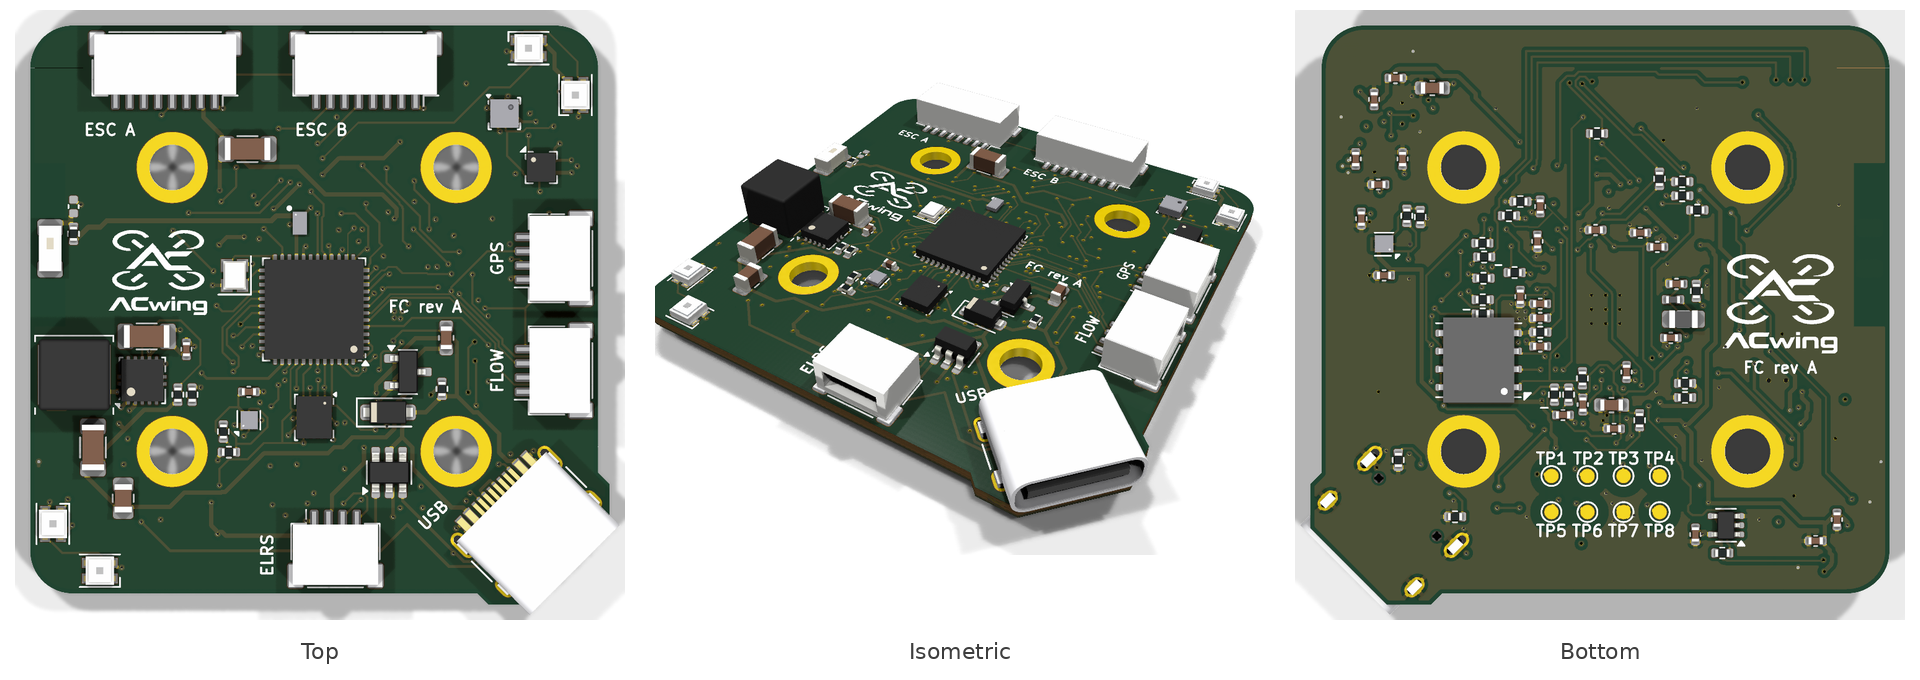
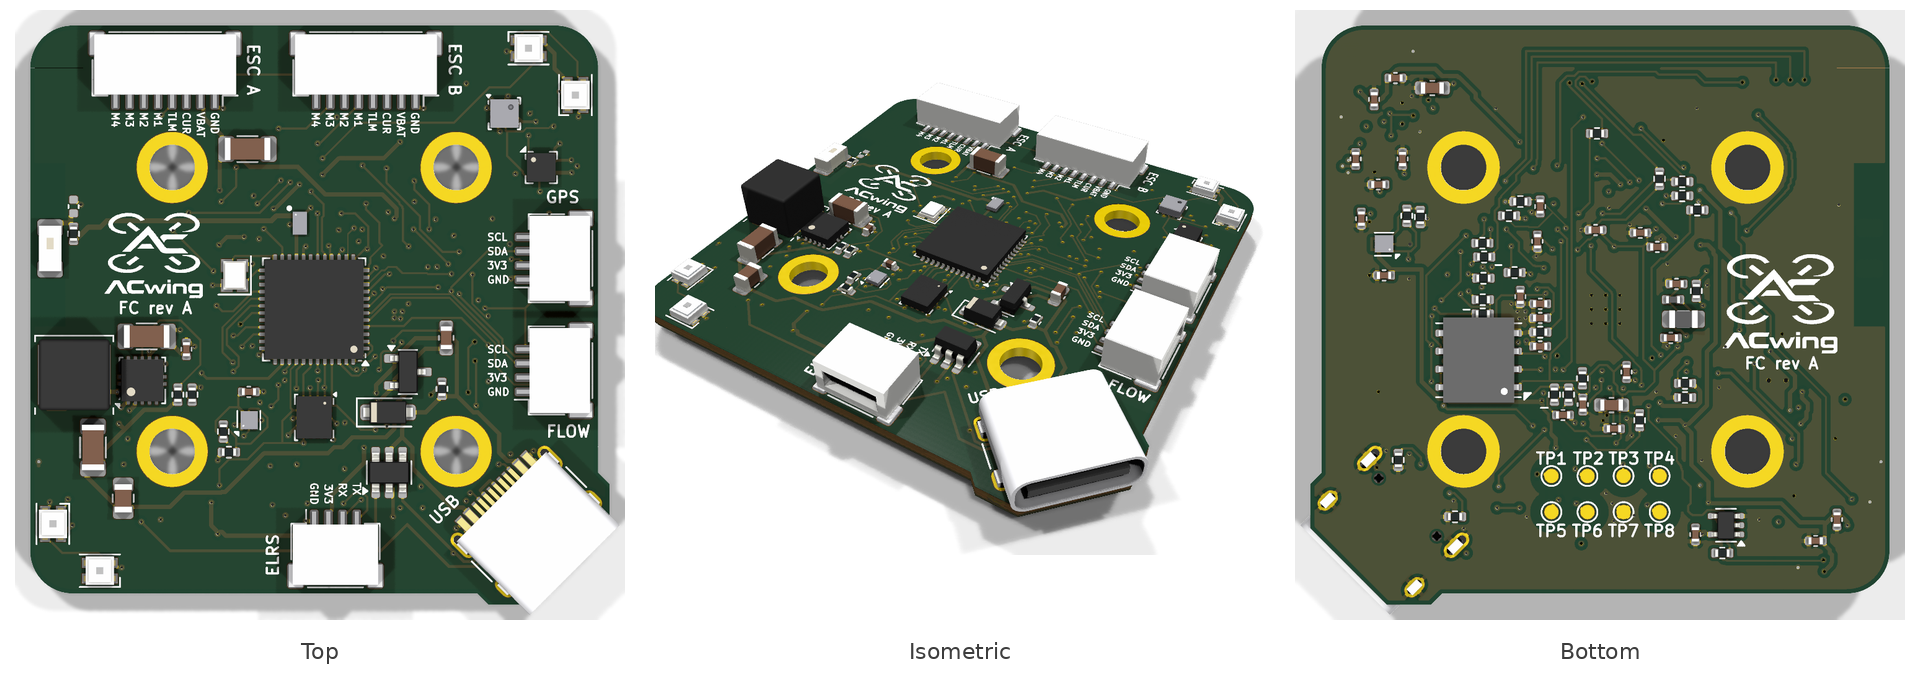
Board renders with the silkscreen pin names; handoff §0.22 (print-first frame)
- FC / ESC 1S / GPS / Flow: *_pcb.png and *_3D.png regenerated with the KiCad 10.0.6
  raytracer after the silkscreen update of 568e74d (connector pin names); stack render
  regenerated (Blender Cycles, KiCad 10 GLB exports). README notes per board.
- Mechanical handoff §0.22: Mech A1 print-first frame (wave guards, still open toward
  the body), closed wire eyelets for the connector-less motors, flat-roof cover; USB-C
  plug clearances 1.20 / 0.77 mm, first frame mode 93.9 Hz, checks 0 overlaps.

Claude-Session: https://claude.ai/code/session_019Nr6Xnv8axshXV5pw79JDM

diff --git a/00 - Docs/04 - System_Docs/ACwing_mechanical_handoff.md b/00 - Docs/04 - System_Docs/ACwing_mechanical_handoff.md
@@ -4,7 +4,7 @@
 
 **From:** electronics design (ACwing FC, ACwing ESC 1S, ACwing Flow, ACwing GPS)
 **To:** mechanical / frame design agent
-**Date:** 2026-10-17, **updated 2026-11-07** (§0 supersedes the older items it names; §0.9 = FC rev A, §0.10 = power board rev A + stack check; §0.11 = GPS rev A, 6 mm standoffs; §0.12 = layout update 2026-10-24; §0.13 = layout and routing 2026-11-02/03; §0.14 = stack connectors 2026-11-06; §0.15 = 1.6 mm boards 2026-11-07; §0.16 = mechanical answer; §0.17 = ESC J1 toward the front corner; §0.18 = mechanical answer to §0.17; §0.19 = layout update 2; §0.20 = ESC J1 at the FC edge distance, no FC battery pads, 45° routing; §0.21 = mechanical answer to §0.19 / §0.20)
+**Date:** 2026-10-17, **updated 2026-11-12** (§0 supersedes the older items it names; §0.9 = FC rev A, §0.10 = power board rev A + stack check; §0.11 = GPS rev A, 6 mm standoffs; §0.12 = layout update 2026-10-24; §0.13 = layout and routing 2026-11-02/03; §0.14 = stack connectors 2026-11-06; §0.15 = 1.6 mm boards 2026-11-07; §0.16 = mechanical answer; §0.17 = ESC J1 toward the front corner; §0.18 = mechanical answer to §0.17; §0.19 = layout update 2; §0.20 = ESC J1 at the FC edge distance, no FC battery pads, 45° routing; §0.21 = mechanical answer to §0.19 / §0.20; §0.22 = print-first frame and closed wire eyelets, 2026-11-12)
 **Status:** §0 is a decided architecture change; **§0.7 gives the draft F boards as designed** (ACwing ESC 1S draft A, ACwing FC
 draft F, ACwing GPS draft C: connector coordinates, USB corner, LEDs, heights). §2 (flow board) is final.
 
@@ -318,6 +318,18 @@ What we need back: guard-ring check and RM with J1 at u −10.5; cable A length 
 | **Checks** | T400 indoor and GPS, T800, T1200: 0 mm³ for every pair that is not an assembly interface (boards from your STEP models of 2026-11-08). |
 | **Frame modes** | First mode (saddle) 98.8 Hz with T400 in the 2026-11-08 FE model, −3.7 Hz from the RM 51 design in the same model. Do the tap test on the first build. |
 | **For rev B** | The A2 rings leave the space above the board edges free; the limit near the edge centres is the propeller disc (27.5 mm from each motor axis, 24.5 mm from the board centre along the edge normal at RM 52). |
+
+### 0.22 Mechanical update: print-first frame, closed wire eyelets (2026-11-12, ACwing_Mechs Mech A1 §12)
+| Item | Answer |
+|---|---|
+| **Why** | The first print of the A2 core (PETG Matte, upside down) failed: the top rings of the guards needed supports and broke when the supports were removed. The frame is now designed for a Bambu Lab A1 with no supports inside the guards. |
+| **Guards** | New **wave guards** on all four motors: a 0.86 mm wall bulged 1.2 mm outward, a top lip, the lower rim and an S ribbon between them (the curve of the cover skirt). Still **open toward the body** for ±46° with 45° ramps: above the four board edges there is still only the lower rim, below the stack. Nothing changes for the board edges, the plugs or cable A (1.37 mm from the propeller disc, 4.55 mm from the frame). |
+| **RM, stack, screws** | Unchanged: RM 52, ESC −2.0 … −1.0, FC 4.0 … 5.0, GPS 11.0 … 12.0; S1 2.57 / S2 3.57 mm; M2 × 14 (indoor) / M2 × 25 (GPS); flow M2 × 4 nylon. |
+| **USB-C** | Frame clearance: FC plug 1.20 mm, ESC plug 0.77 mm (the bulge fades to a straight wall near the plugs). One plug at a time, as before. |
+| **Motor leads** | The 8520 motors have no connector: the arms now have **3 closed eyelets each** (hole ≈ 1.6 mm). Thread the two leads through them before soldering them to the ESC motor pads; keep the pads where they are. |
+| **Cover** | Flat roof with a 45° chamfer, logo engraved, printed roof-down; same posts, screws, notch for the FC USB-C and skirt (corner LEDs visible). |
+| **Frame** | 134.8 × 134.8 mm; core 17.63 g solid (about 15 g printed); drone T400 indoor ≈ 69.3 g. First frame mode 93.9 Hz with T400 (FE model of 2026-11-08). |
+| **Checks** | T400 indoor and GPS, T800, T1200: 0 mm³ for every pair that is not an assembly interface (your STEP models of 2026-11-08; the silkscreen of 2026-11-12 does not change them). |
 
 ## 1. Coordinate conventions
 

diff --git a/00 - Docs/04 - System_Docs/README.md b/00 - Docs/04 - System_Docs/README.md
@@ -13,7 +13,7 @@ and the stack check of the boards with all connectors mated.
 | [`ACwing_frame_preliminary_draft_mechanical_answer.md`](ACwing_frame_preliminary_draft_mechanical_answer.md) | mechanical answer on the preliminary draft frame: stack hardware, cables wire by wire, flow board mounting, vibration, weight budget |
 | [`ACwing_frame_preliminary_draft_electronics_reply.md`](ACwing_frame_preliminary_draft_electronics_reply.md) | electronics reply: checks confirmed, non-magnetic stack screws requested |
 | `ACwing_stack_check.html` + `stack_data.js` | interactive 3D stack check (ESC 1S A + FC A + GPS A, 6 mm FC → GPS gap): download both files and open the page in a browser. Board data of 2026-11-08 (KiCad 10.0.6): 1.0 mm boards, 45° routing, ESC A link at the front-left, ESC J1 at the FC J2 edge distance, ESC battery pads across the rear-left corner |
-| `ACwing_stack_3D.png` | render of the stack (2026-11-08, Blender Cycles from the KiCad 10 GLB exports, 1.0 mm boards): ESC A cable straight at the front-left, Qwiic FC → GPS on the right edge |
+| `ACwing_stack_3D.png` | render of the stack (regenerated 2026-11-12 with the silkscreen pin names; Blender Cycles from the KiCad 10 GLB exports, 1.0 mm boards): ESC A cable straight at the front-left, Qwiic FC → GPS on the right edge |
 
 > The handoff and the two preliminary-draft frame documents are design logs from before the release: their *draft*
 > letters are internal iterations, never manufactured. All current boards are rev A. The released mechanics is

diff --git a/00 - Docs/02 - GPS_Docs/README.md b/00 - Docs/02 - GPS_Docs/README.md
@@ -6,6 +6,8 @@
 
 > **Revisions.** Rev A is the first released revision. Earlier letters, marked *draft* in this document (drafts A–C), are internal design iterations that were never manufactured.
 
+> **Silkscreen with connector pin names (2026-11-12, still rev A).** The connector labels now carry the pin names (commit 568e74d). Layout and copper unchanged. `ACwing_GPS_A_pcb.png` and `ACwing_GPS_A_3D.png` regenerated with the KiCad 10.0.6 raytracer (`99 - Tools/outputs/k10_renders.sh`, `compose_board_renders.py`).
+
 > **45° routing (2026-11-08, still rev A).** Every track is now at 0 / 45 / 90° (house rule for all ACwing boards):
 > 11 off-angle runs replaced by octilinear doglegs, same end points, pads and vias; 0 segments off 45° left; 8 duplicated segments removed.
 > Checked and saved with KiCad 10.0.6: DRC 0 / 0, ERC 0 errors; Gerber, drill, STEP, schematic PDF, DRC report and renders regenerated.

diff --git a/00 - Docs/01 - ESC_1S_Docs/README.md b/00 - Docs/01 - ESC_1S_Docs/README.md
@@ -6,6 +6,8 @@
 
 > **Revisions.** Rev A is the first released revision. The earlier letter, marked *draft* in this document (draft A, the first motor board), is an internal design iteration that was never manufactured.
 
+> **Silkscreen with connector pin names (2026-11-12, still rev A).** The connector labels now carry the pin names (commit 568e74d). Layout and copper unchanged. `ACwing_ESC1S_A_pcb.png` and `ACwing_ESC1S_A_3D.png` regenerated with the KiCad 10.0.6 raytracer (`99 - Tools/outputs/k10_renders.sh`, `compose_board_renders.py`).
+
 > **J1 at the FC edge distance and 45° routing (2026-11-08, still rev A).**
 > - **J1 moved 0.77 mm toward the front edge**: centre **(−10.5, +16.85)**, the same edge distance as FC J2 / J6
 >   (pins v = +14.85, mouth +v; body front at the board edge as on the FC). Copper under and around J1 (PWM_M1–M4, CUR,

diff --git a/00 - Docs/00 - FC_Docs/README.md b/00 - Docs/00 - FC_Docs/README.md
@@ -6,6 +6,8 @@
 
 > **Revisions.** Rev A is the first released revision. Earlier letters, marked *draft* in this document (drafts C–G), are internal design iterations that were never manufactured.
 
+> **Silkscreen with connector pin names (2026-11-12, still rev A).** The connector labels now carry the pin names (commit 568e74d). Layout and copper unchanged. `ACwing_FC_A_pcb.png` and `ACwing_FC_A_3D.png` regenerated with the KiCad 10.0.6 raytracer (`99 - Tools/outputs/k10_renders.sh`, `compose_board_renders.py`).
+
 > **45° routing and no battery pads (2026-11-08, still rev A).**
 > - **Every track is now at 0 / 45 / 90°** (house rule for all ACwing boards): 374 off-angle runs from Freerouting
 >   replaced by octilinear doglegs or a short octilinear A* detour, same end points, pads and vias; 0 segments off 45°

diff --git a/00 - Docs/03 - FLOW_Docs/README.md b/00 - Docs/03 - FLOW_Docs/README.md
@@ -6,6 +6,8 @@
 
 > **Revisions.** Rev A is the first released revision.
 
+> **Silkscreen with connector pin names (2026-11-12, still rev A).** The connector labels now carry the pin names (commit 568e74d). Layout and copper unchanged. `ACwing_Flow_A_pcb.png` and `ACwing_Flow_A_3D.png` regenerated with the KiCad 10.0.6 raytracer (`99 - Tools/outputs/k10_renders.sh`, `compose_board_renders.py`).
+
 > **45° routing (2026-11-08, still rev A).** Every track is now at 0 / 45 / 90° (house rule for all ACwing boards):
 > 165 off-angle runs replaced by octilinear doglegs, same end points, pads and vias; 0 segments off 45° left; 170 duplicated segments left by the router removed.
 > Checked and saved with KiCad 10.0.6: DRC 0 / 0, ERC unchanged; Gerber, drill, STEP, schematic PDF, DRC report and renders regenerated.
